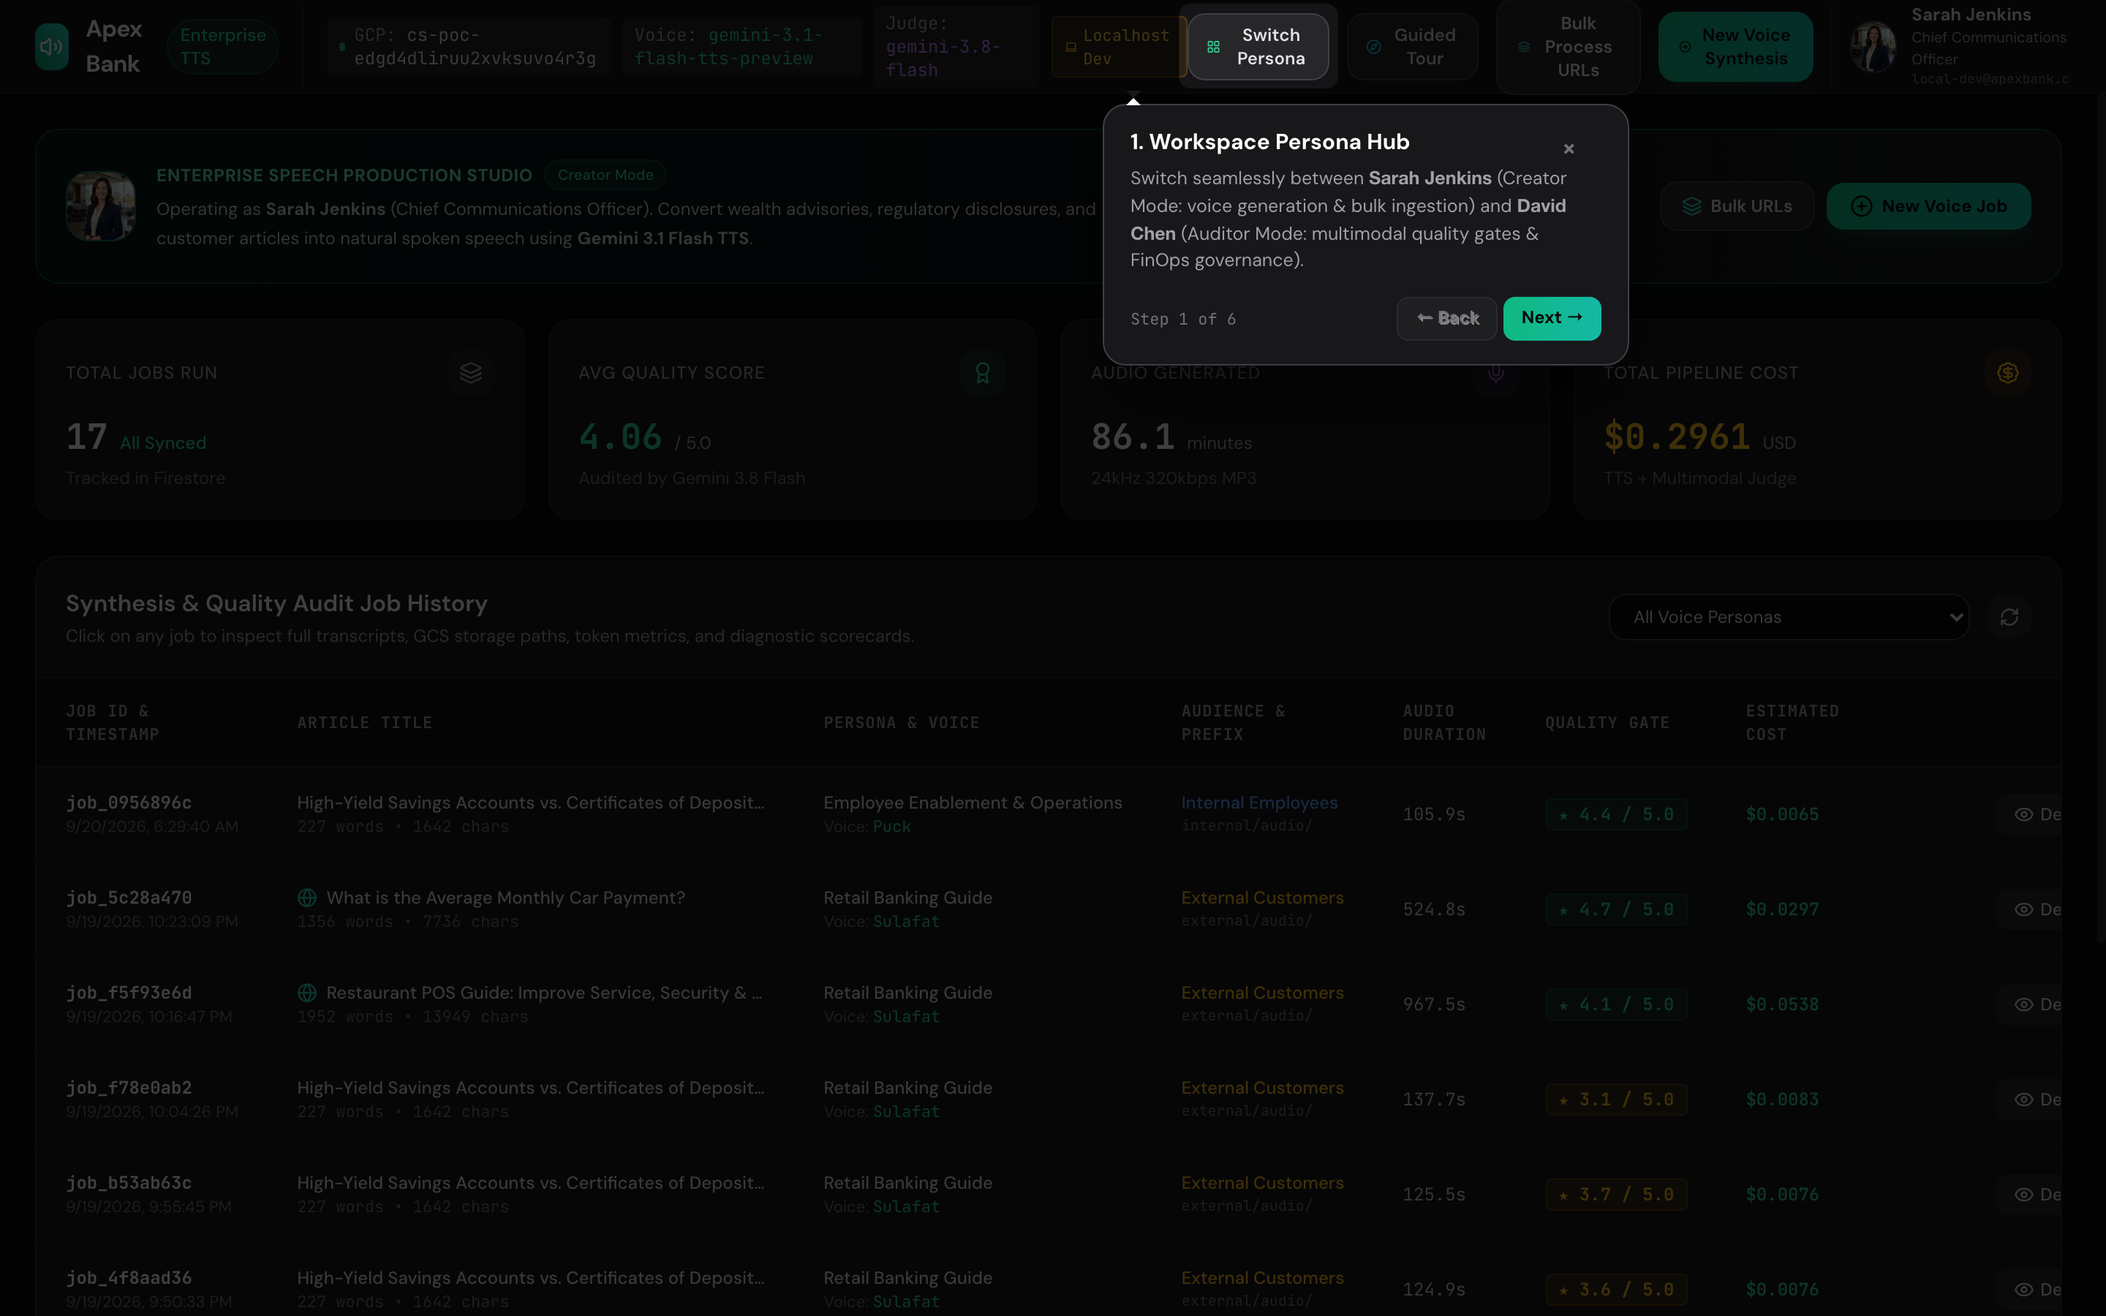
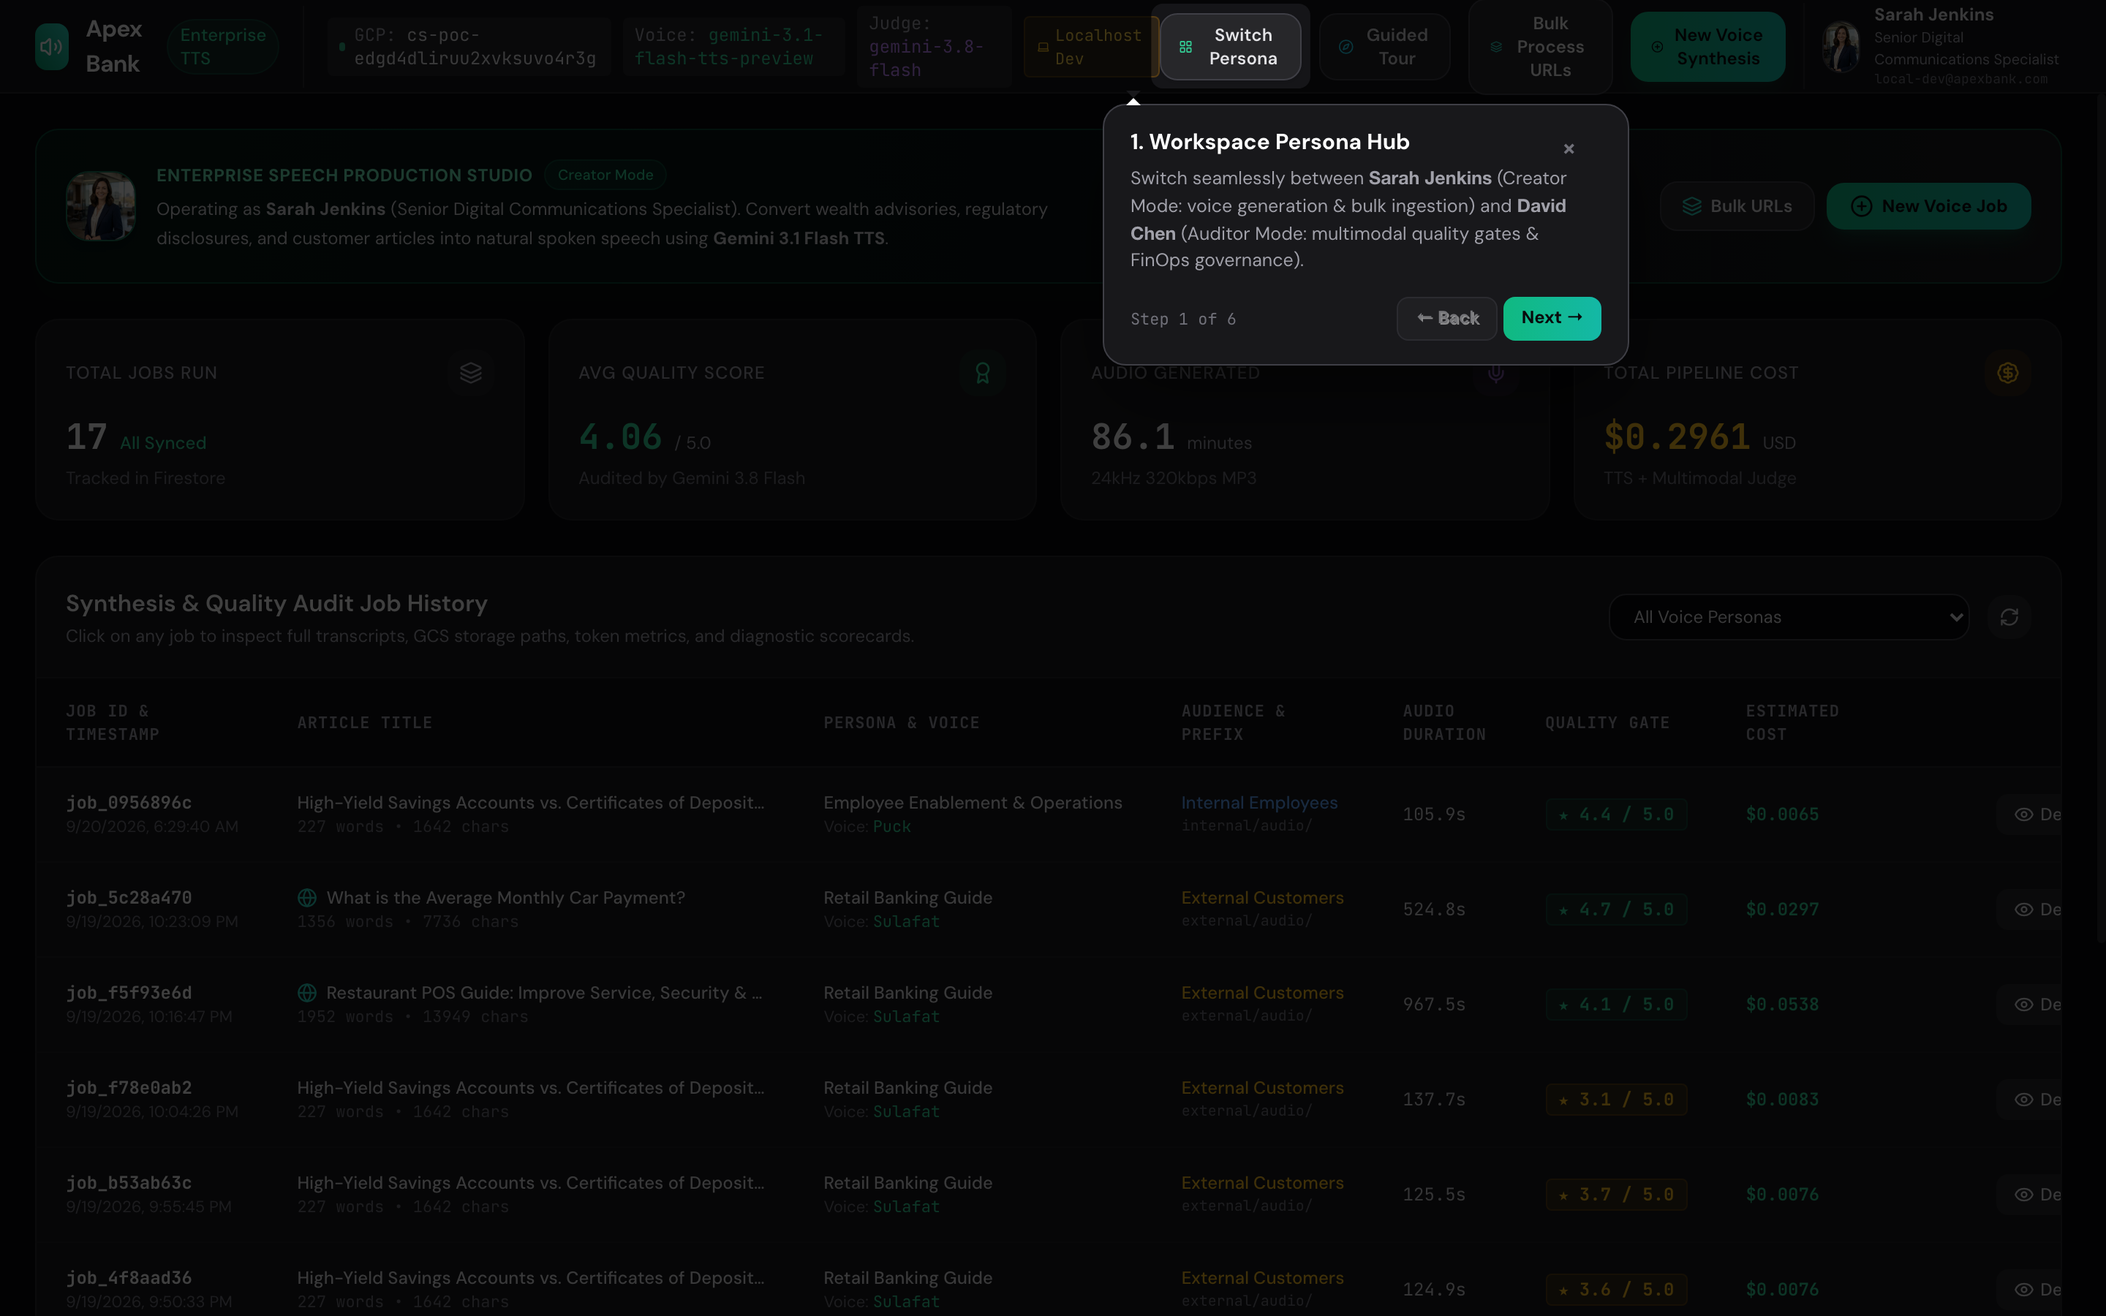
feat(personas): align user roles with realistic banking operational specialists

diff --git a/src/ui/static/index.html b/src/ui/static/index.html
@@ -214,8 +214,8 @@
               <div>
                 <span class="px-2 py-0.5 rounded-full bg-emerald-500/10 border border-emerald-500/20 text-[10px] text-emerald-400 font-bold uppercase tracking-wider">Creator View</span>
                 <h3 class="text-base font-bold text-white mt-1 group-hover:text-emerald-300 transition">Sarah Jenkins</h3>
-                <p class="text-xs text-zinc-400">Chief Communications Officer</p>
-                <p class="text-[10px] text-zinc-500">Digital Wealth & Customer Exp.</p>
+                <p class="text-xs text-zinc-400">Senior Digital Communications Specialist</p>
+                <p class="text-[10px] text-zinc-500">Digital Wealth Communications & Publishing</p>
               </div>
             </div>
             <p class="text-xs text-zinc-300 leading-relaxed mb-4">
@@ -236,8 +236,8 @@
               <div>
                 <span class="px-2 py-0.5 rounded-full bg-purple-500/10 border border-purple-500/20 text-[10px] text-purple-400 font-bold uppercase tracking-wider">Auditor View</span>
                 <h3 class="text-base font-bold text-white mt-1 group-hover:text-purple-300 transition">David Chen</h3>
-                <p class="text-xs text-zinc-400">VP Regulatory Compliance</p>
-                <p class="text-[10px] text-zinc-500">Bank Secrecy & AML Oversight</p>
+                <p class="text-xs text-zinc-400">Senior Regulatory Compliance Analyst</p>
+                <p class="text-[10px] text-zinc-500">Communications Compliance & Disclosure Oversight</p>
               </div>
             </div>
             <p class="text-xs text-zinc-300 leading-relaxed mb-4">
@@ -341,7 +341,7 @@
           </div>
           <div class="hidden md:block text-left">
             <div id="userName" class="text-xs font-bold text-zinc-200">Sarah Jenkins</div>
-            <div id="userRole" class="text-[10px] text-zinc-400">Chief Communications Officer</div>
+            <div id="userRole" class="text-[10px] text-zinc-400">Senior Digital Communications Specialist</div>
             <div id="userGoogleEmail" class="text-[9px] text-zinc-500 font-mono hidden truncate max-w-[140px]"></div>
           </div>
           <button onclick="handleLogout()" title="Sign Out from Platform" class="p-1.5 text-zinc-400 hover:text-rose-400 hover:bg-zinc-800 rounded-lg transition ml-1">
@@ -366,7 +366,7 @@
                 <span class="px-2 py-0.5 rounded-full bg-emerald-500/10 border border-emerald-500/20 text-[10px] text-emerald-400 font-medium">Creator Mode</span>
               </div>
               <p class="text-xs text-zinc-300 mt-1 max-w-2xl leading-relaxed">
-                Operating as <strong>Sarah Jenkins</strong> (Chief Communications Officer). Convert wealth advisories, regulatory disclosures, and customer articles into natural spoken speech using <strong>Gemini 3.1 Flash TTS</strong>.
+                Operating as <strong>Sarah Jenkins</strong> (Senior Digital Communications Specialist). Convert wealth advisories, regulatory disclosures, and customer articles into natural spoken speech using <strong>Gemini 3.1 Flash TTS</strong>.
               </p>
             </div>
           </div>
@@ -446,7 +446,7 @@
                 <span class="px-2 py-0.5 rounded-full bg-purple-500/20 border border-purple-500/30 text-[10px] text-purple-300 font-medium">Auditor Mode Active</span>
               </div>
               <p class="text-xs text-zinc-300 mt-1 max-w-2xl leading-relaxed">
-                Operating as <strong>David Chen</strong> (VP Regulatory Compliance). Overseeing <strong>Gemini 3.8 Flash Multimodal Quality Scorecards</strong>, disclosure clarity, Truth in Lending verification, and FinOps governance.
+                Operating as <strong>David Chen</strong> (Senior Regulatory Compliance Analyst). Overseeing <strong>Gemini 3.8 Flash Multimodal Quality Scorecards</strong>, disclosure clarity, Truth in Lending verification, and FinOps governance.
               </p>
             </div>
           </div>
@@ -1807,8 +1807,8 @@
           email: 'local-dev@apexbank.com',
           google_email: 'local-dev@apexbank.com',
           name: activePersona === 'auditor' ? 'David Chen' : 'Sarah Jenkins',
-          role: activePersona === 'auditor' ? 'VP Regulatory Compliance' : 'Chief Communications Officer',
-          department: activePersona === 'auditor' ? 'Bank Secrecy & AML Oversight' : 'Digital Wealth & Customer Experience',
+          role: activePersona === 'auditor' ? 'Senior Regulatory Compliance Analyst' : 'Senior Digital Communications Specialist',
+          department: activePersona === 'auditor' ? 'Communications Compliance & Disclosure Oversight' : 'Digital Wealth Communications & Publishing',
           persona_type: activePersona,
           avatar: activePersona === 'auditor' ? '/static/avatars/auditor_david.jpg' : '/static/avatars/creator_sarah.jpg'
         };
@@ -1891,8 +1891,8 @@
         email: 'local-dev@apexbank.com',
         google_email: 'local-dev@apexbank.com',
         name: activePersona === 'auditor' ? 'David Chen' : 'Sarah Jenkins',
-        role: activePersona === 'auditor' ? 'VP Regulatory Compliance' : 'Chief Communications Officer',
-        department: activePersona === 'auditor' ? 'Bank Secrecy & AML Oversight' : 'Digital Wealth & Customer Experience',
+        role: activePersona === 'auditor' ? 'Senior Regulatory Compliance Analyst' : 'Senior Digital Communications Specialist',
+        department: activePersona === 'auditor' ? 'Communications Compliance & Disclosure Oversight' : 'Digital Wealth Communications & Publishing',
         persona_type: activePersona,
         avatar: activePersona === 'auditor' ? '/static/avatars/auditor_david.jpg' : '/static/avatars/creator_sarah.jpg'
       };
@@ -2076,7 +2076,7 @@
 
     function setUserHeader(user) {
       document.getElementById('userName').textContent = user.name || 'Sarah Jenkins';
-      document.getElementById('userRole').textContent = user.role || 'Chief Communications Officer';
+      document.getElementById('userRole').textContent = user.role || 'Senior Digital Communications Specialist';
       
       const emailEl = document.getElementById('userGoogleEmail');
       const googleEmail = user.google_email || (user.email && !user.email.includes('apexbank.com') ? user.email : null);
@@ -4012,7 +4012,7 @@
           element: '#btnSwitchPersona',
           popover: {
             title: '1. Workspace Persona Hub',
-            description: 'Switch between <strong>David Chen</strong> (VP Regulatory Compliance) and <strong>Sarah Jenkins</strong> (Chief Communications Officer).',
+            description: 'Switch between <strong>David Chen</strong> (Senior Regulatory Compliance Analyst) and <strong>Sarah Jenkins</strong> (Senior Digital Communications Specialist).',
             side: 'bottom',
             align: 'start'
           }

diff --git a/src/ui/app.py b/src/ui/app.py
@@ -65,15 +65,15 @@ ACTIVE_SESSIONS: Dict[str, Dict[str, Any]] = {}
 PERSONA_PROFILES: Dict[str, Dict[str, str]] = {
     "creator": {
         "name": "Sarah Jenkins",
-        "role": "Chief Communications Officer",
-        "department": "Digital Wealth & Customer Experience",
+        "role": "Senior Digital Communications Specialist",
+        "department": "Digital Wealth Communications & Publishing",
         "avatar": "/static/avatars/creator_sarah.jpg",
         "persona_type": "creator"
     },
     "auditor": {
         "name": "David Chen",
-        "role": "VP Regulatory Compliance",
-        "department": "Bank Secrecy & AML Oversight",
+        "role": "Senior Regulatory Compliance Analyst",
+        "department": "Communications Compliance & Disclosure Oversight",
         "avatar": "/static/avatars/auditor_david.jpg",
         "persona_type": "auditor"
     }
@@ -83,16 +83,16 @@ DEMO_USERS = {
     "admin@apexbank.com": {
         "password": "demo1234",
         "name": "Sarah Jenkins",
-        "role": "Chief Communications Officer",
-        "department": "Digital Wealth & Customer Experience",
+        "role": "Senior Digital Communications Specialist",
+        "department": "Digital Wealth Communications & Publishing",
         "avatar": "/static/avatars/creator_sarah.jpg",
         "persona_type": "creator"
     },
     "auditor@apexbank.com": {
         "password": "demo1234",
         "name": "David Chen",
-        "role": "VP Regulatory Compliance",
-        "department": "Bank Secrecy & AML Oversight",
+        "role": "Senior Regulatory Compliance Analyst",
+        "department": "Communications Compliance & Disclosure Oversight",
         "avatar": "/static/avatars/auditor_david.jpg",
         "persona_type": "auditor"
     }
@@ -280,8 +280,8 @@ def create_google_session(req: GoogleSessionRequest):
         "picture": None,
         "uid": f"g_{secrets.token_hex(8)}",
         "name": "Sarah Jenkins",
-        "role": "Chief Communications Officer",
-        "department": "Digital Wealth & Customer Experience",
+        "role": "Senior Digital Communications Specialist",
+        "department": "Digital Wealth Communications & Publishing",
         "avatar": "/static/avatars/creator_sarah.jpg",
         "persona_type": "creator"
     }
@@ -344,8 +344,8 @@ def google_login(req: GoogleLoginRequest):
             "picture": idinfo.get("picture"),
             "uid": idinfo.get("sub") or f"g_{secrets.token_hex(8)}",
             "name": "Sarah Jenkins",
-            "role": "Chief Communications Officer",
-            "department": "Digital Wealth & Customer Experience",
+            "role": "Senior Digital Communications Specialist",
+            "department": "Digital Wealth Communications & Publishing",
             "avatar": "/static/avatars/creator_sarah.jpg",
             "persona_type": "creator"
         }

diff --git a/tests/test_auth.py b/tests/test_auth.py
@@ -159,7 +159,7 @@ def test_get_current_user_with_valid_gcip_token():
         assert user["email"] == "admin@altostrat.com"
         assert user["google_name"] == "Admin Specialist"
         assert user["name"] == "Sarah Jenkins"
-        assert user["role"] == "Chief Communications Officer"
+        assert user["role"] == "Senior Digital Communications Specialist"
         assert user["avatar"] == "/static/avatars/creator_sarah.jpg"
         assert user["persona_type"] == "creator"
 
@@ -177,7 +177,7 @@ def test_get_current_user_with_auditor_persona():
         user = get_current_user(authorization="Bearer valid-token-123", x_apex_persona="auditor")
         assert user["email"] == "admin@altostrat.com"
         assert user["name"] == "David Chen"
-        assert user["role"] == "VP Regulatory Compliance"
+        assert user["role"] == "Senior Regulatory Compliance Analyst"
         assert user["avatar"] == "/static/avatars/auditor_david.jpg"
         assert user["persona_type"] == "auditor"
 
@@ -205,7 +205,7 @@ def test_get_current_user_demo_auth_success():
         "user": {
             "email": "admin@apexbank.com",
             "name": "Sarah Jenkins",
-            "role": "Chief Communications Officer",
+            "role": "Senior Digital Communications Specialist",
             "department": "Digital Wealth"
         },
         "created_at": 123456789.0
@@ -240,7 +240,7 @@ def test_create_google_session_success():
         assert me_resp.status_code == 200
         me_data = me_resp.json()
         assert me_data["user"]["name"] == "David Chen"
-        assert me_data["user"]["role"] == "VP Regulatory Compliance"
+        assert me_data["user"]["role"] == "Senior Regulatory Compliance Analyst"
         assert me_data["user"]["persona_type"] == "auditor"
 
 

diff --git a/USER_GUIDE.md b/USER_GUIDE.md
@@ -42,8 +42,8 @@ The platform is designed around two core banking stakeholders:
 
 | User Persona | Enterprise Role | Department | Workspace Focus |
 | :--- | :--- | :--- | :--- |
-| **Sarah Jenkins** | Chief Communications Officer | Digital Wealth & Customer Experience | **Content Creator Studio**: Ingest articles, customize voice personas, configure director notes, run multi-turn synthesis, and review audio players. |
-| **David Chen** | VP Regulatory Compliance | Bank Secrecy & AML Oversight | **Compliance & Governance Console**: Full-page executive dashboard, 4 interactive Chart.js visualizations, persona governance matrix, and flagged disclosures review. |
+| **Sarah Jenkins** | Senior Digital Communications Specialist | Digital Wealth Communications & Publishing | **Content Creator Studio**: Ingest articles, customize voice personas, configure director notes, run multi-turn synthesis, and review audio players. |
+| **David Chen** | Senior Regulatory Compliance Analyst | Communications Compliance & Disclosure Oversight | **Compliance & Governance Console**: Full-page executive dashboard, 4 interactive Chart.js visualizations, persona governance matrix, and flagged disclosures review. |
 
 #### Instant Workspace Switching
 You can switch between **Sarah Jenkins** (Creator) and **David Chen** (Auditor) at any time without logging out or losing work:
@@ -195,7 +195,7 @@ The scorecard provides verbatim rationale and specific, actionable recommendatio
 
 ## Step 7: Executive Compliance & Governance Dashboard (David Chen Persona)
 
-When switching to **David Chen** (VP Regulatory Compliance), the application unlocks a dedicated, full-page **Executive Governance Dashboard**:
+When switching to **David Chen** (Senior Regulatory Compliance Analyst), the application unlocks a dedicated, full-page **Executive Governance Dashboard**:
 
 ```
 ┌─────────────────────────────────────────────────────────────────────────────┐
@@ -330,8 +330,8 @@ All speech synthesis jobs, audio GCS references, token telemetry, and quality sc
 │ How do I launch the app locally?  │ make ui-dev (or make ui)                                    │
 │ What is the local URL?            │ http://127.0.0.1:8000 (Localhost Auth Bypass auto-active)   │
 │ How do I switch personas?         │ Click "Switch Workspace" in the top navbar                  │
-│ Who is the Content Creator?       │ Sarah Jenkins (Chief Communications Officer)                │
-│ Who is the Compliance Auditor?    │ David Chen (VP Regulatory Compliance)                       │
+│ Who is the Content Creator?       │ Sarah Jenkins (Senior Digital Communications Specialist)    │
+│ Who is the Compliance Auditor?    │ David Chen (Senior Regulatory Compliance Analyst)           │
 │ Where is job data persisted?      │ Google Cloud Firestore Native (tts-jobs database)           │
 │ How do I migrate local SQLite?    │ make migrate-data                                           │
 │ Where is audio stored?            │ Google Cloud Storage (gs://[BUCKET]/[prefix]/[job_id].mp3)   │

diff --git a/README.md b/README.md
@@ -16,7 +16,7 @@ The **Apex Bank Knowledge-to-Speech Studio** solves these challenges using **Goo
 5. **Multimodal LLM-as-a-Judge Quality Audit**: Automated evaluation of the synthesized audio directly from its GCS URI pointer (`types.Part.from_uri()`) against a strict 6-dimension rubric, with zero audio download or streaming into the worker.
 6. **Executive FinOps & Compliance Governance**: Full-page interactive **Chart.js** dashboard for compliance auditors featuring Rubric Radars, FinOps spend allocations, persona volume comparisons, and token utilization breakdowns.
 7. **Cloud Firestore Serverless Persistence**: Enterprise persistence using **Google Cloud Firestore Native Mode** (`tts-jobs` database), ensuring job history and audit records persist seamlessly across Cloud Run container deployments with automatic SQLite fallback for isolated offline testing.
-8. **Dual-Persona Workspace Hub**: Seamless top-navigation switching between **Sarah Jenkins** (Chief Communications Officer - Content Creator) and **David Chen** (VP Regulatory Compliance - Compliance Auditor).
+8. **Dual-Persona Workspace Hub**: Seamless top-navigation switching between **Sarah Jenkins** (Senior Digital Communications Specialist - Content Creator) and **David Chen** (Senior Regulatory Compliance Analyst - Compliance Auditor).
 9. **Zero-Config Localhost Auth Bypass**: Automatic loopback detection (`127.0.0.1` / `localhost`) bypassing Google OAuth origin restrictions for instant local developer access while strictly enforcing GCIP JWT cryptographic verification on Google Cloud Run.
 10. **Resilient Real-Time Progress UX**: Instant state unshift, self-healing job details fetch, 5-stage live stepper (`CHUNKING` → `SYNTHESIZING` → `STITCHING` → `UPLOADING` → `EVALUATING`), and sample disclosures director tuning.
 
@@ -523,7 +523,7 @@ class FirestoreJobRepository(BaseJobRepository):
 ### Step 10: Executive Auditor Dashboard & Interactive Chart.js Telemetry
 **File**: [`src/ui/static/index.html`](file:///Users/rrangan/Documents/customers/tts-demo/src/ui/static/index.html)
 
-For compliance officers and VP Regulatory Compliance (**David Chen**), the platform provides a dedicated full-page **Executive Governance Dashboard** powered by Chart.js:
+For compliance officers and Senior Regulatory Compliance Analyst (**David Chen**), the platform provides a dedicated full-page **Executive Governance Dashboard** powered by Chart.js:
 
 1. **Top-Line KPI Metric Cards**:
    - Total FinOps Spend (USD split between Speech Generation and Multimodal Auditing).
